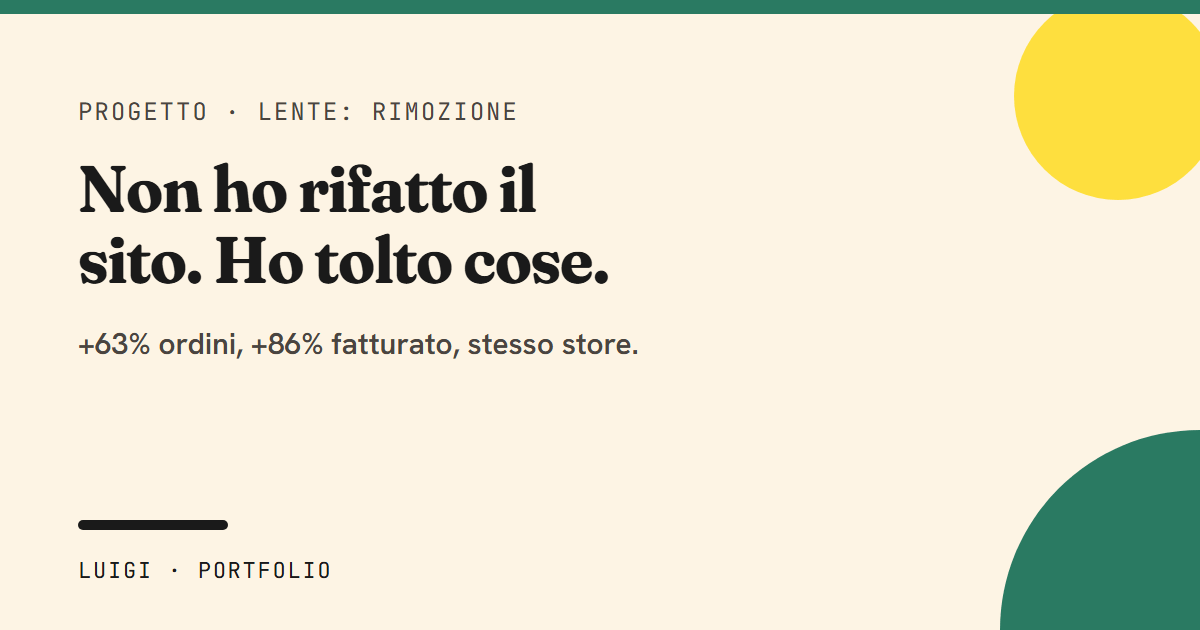
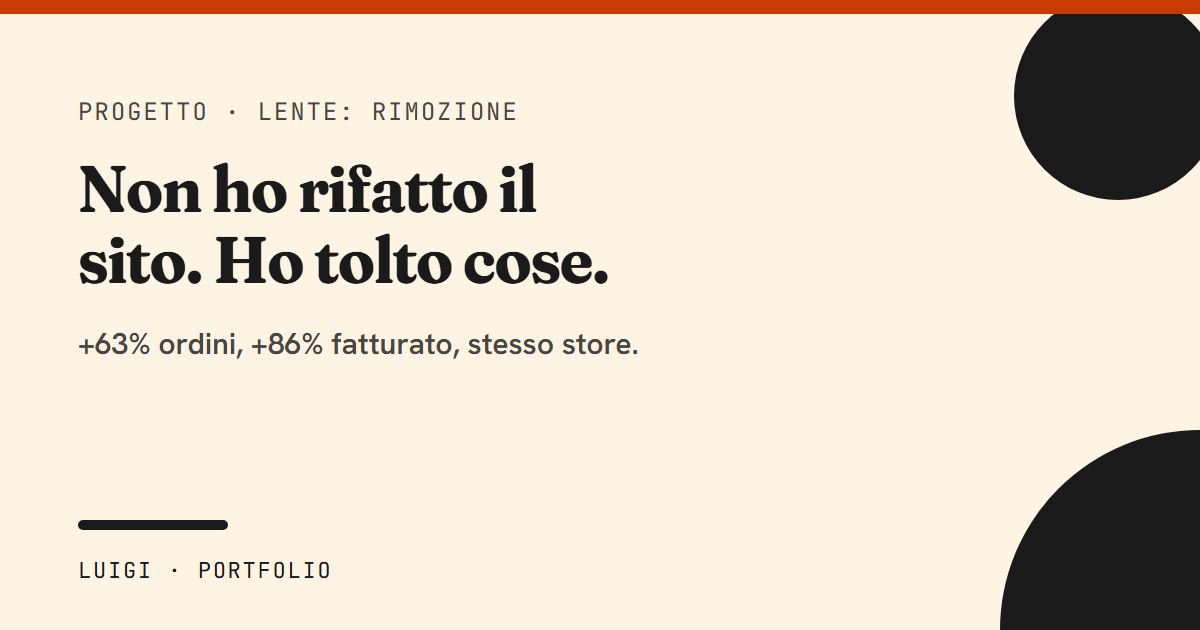
feat(palette): tre colori, regola 60/30/10
Via verde, verde-deep, blu, giallo e rosso da tokens.css e
design-tokens.md. Restano cream/cream-2 (60%), ink/ink-2 (30%),
arancio (10%, unico accento).

- Nav: voce attiva ink/cream, CTA "Scrivimi" outline ink.
- Hero: riga sotto il nome ink-2 in entrambi i percorsi.
- Link: sottolineatura arancio, testo arancio in hover; selezione
  del testo arancio/cream.
- Forme Bauhaus: ogni composizione a una arancio, le altre ink.
- RampChart e Funnel: barre cream/ink, solo l'ultima in arancio.
- StatTile: tone ink/arancio, solo +86% resta arancio nel caso reale.
- Tag: tone ink (bordo) e cream (fondo cream-2), sostituisce
  giallo/blu/verde.
- Chip di codice: fondo cream-2, testo ink.
- Esito positivo del form: fondo ink invece di verde-deep.
- Burst dell'hover sulla scena: due toni di arancio al posto del
  magenta.
- Before/After: tag "Dopo" cream-2/bordo ink invece di giallo.
- prepara-cover.mjs e prepara-og.mjs: via l'accento per percorso,
  un solo arancio per composizione. Rigenerate tutte le cover dei
  progetti e le og-image.
- Styleguide: palette e tabella contrasti aggiornate.

Contrasti AA ricontrollati con la formula WCAG: tutte le coppie di
testo usate restano sopra 4,5:1 (dettaglio in docs/STATO.md).

diff --git a/src/styles/tokens.css b/src/styles/tokens.css
@@ -10,12 +10,7 @@
   --color-cream-2: #f6e9d2; /* card, superfici secondarie */
   --color-ink: #1a1a1a; /* testo principale, bordi forti */
   --color-ink-2: #4a4540; /* testo secondario */
-  --color-verde: #399f80; /* dominante: sezioni, link (su cream usare verde-deep per il testo) */
-  --color-verde-deep: #2a7a62; /* hover del verde */
-  --color-arancio: #c93c00; /* CTA primaria, hover, sottolineature */
-  --color-blu: #0270c0; /* solo percorso "sviluppatore", codice, badge tech */
-  --color-giallo: #fedf3e; /* forme Bauhaus, evidenziazioni, max 5% della pagina */
-  --color-rosso: #e4091e; /* solo nelle grafiche dei concept, mai nella UI */
+  --color-arancio: #c93c00; /* accento 10%: CTA primaria, link, hover, sottolineature */
 
   /* --- Font (self-hosted via @fontsource, font-display: swap) --- */
   --font-display: "Fraunces Variable", Georgia, "Times New Roman", serif;

diff --git a/src/styles/global.css b/src/styles/global.css
@@ -80,20 +80,19 @@
   a {
     color: inherit;
     text-decoration-line: underline;
-    text-decoration-color: var(--color-verde);
+    text-decoration-color: var(--color-arancio);
     text-decoration-thickness: 2px;
     text-underline-offset: 0.18em;
-    transition: color 0.2s var(--ease-brand), text-decoration-color 0.2s var(--ease-brand);
+    transition: color 0.2s var(--ease-brand);
   }
 
   a:hover {
-    color: var(--color-verde-deep);
-    text-decoration-color: var(--color-arancio);
+    color: var(--color-arancio);
   }
 
   ::selection {
-    background-color: var(--color-giallo);
-    color: var(--color-ink);
+    background-color: var(--color-arancio);
+    color: var(--color-cream);
   }
 
   :focus-visible {

diff --git a/src/content.config.ts b/src/content.config.ts
@@ -32,7 +32,7 @@ const progetti = defineCollection({
       /** Posizione nella griglia per ciascun percorso (1 = primo). */
       ordine_dev: z.number().int().positive(),
       ordine_business: z.number().int().positive(),
-      /** Card con tag giallo e nessun link al dettaglio. */
+      /** Card con tag "in arrivo" e nessun link al dettaglio. */
       in_arrivo: z.boolean().default(false),
       /* I default sono scritti per esteso: zod non ripassa il valore di
          .default() dentro lo schema, quindi un `.default({})` lascerebbe

diff --git a/docs/STATO.md b/docs/STATO.md
@@ -145,6 +145,47 @@ visibili a riposo) non è stato toccato.
   c'è più. Rigenerata solo `og.png`; le altre og, rifatte con il nuovo file, differivano solo
   nell'antialiasing e sono state lasciate com'erano.
 
+- **Palette a tre colori (2026-09-23).** `verde`, `verde-deep`, `blu`, `giallo` e `rosso` escono
+  da `src/styles/tokens.css` e da `docs/design-tokens.md`: restano `cream`/`cream-2` (60%),
+  `ink`/`ink-2` (30%), `arancio` (10%, unico accento). Tolti a mano da ogni file che li usava,
+  build e classi Tailwind non generate non lo segnalano da sole. Le regole, componente per
+  componente:
+  - **Nav** (`Nav.astro`): voce attiva ink con testo cream (contrasto 15,9:1); `Scrivimi` outline
+    ink su fondo trasparente, riempimento ink al passaggio del mouse.
+  - **Hero**: riga sotto il nome ink-2 in entrambi i percorsi (prima blu/verde-deep).
+  - **Link** (`global.css`): sottolineatura arancio sempre, testo arancio al passaggio del mouse
+    (prima verde/verde-deep); selezione del testo fondo arancio, testo cream.
+  - **Forme Bauhaus**: ogni composizione (hero, `/come-lavoro`, `/contatti`, 404, cover dei
+    progetti, og-image) resta a una forma arancio e le altre ink, mai più di una insieme.
+  - **Grafici**: `RampChart` (barre mensili) e `Funnel` (imbuto del caso reale) hanno barre
+    cream/ink, solo l'ultima (il mese o il passo finale) in arancio, bordo ink sempre presente
+    sulla pista. `StatTile`: tone ridotto a `ink` (default) e `arancio`; nel caso reale solo
+    +86% di fatturato è arancio, +63% ordini e 94% traffico restano ink.
+  - **Tag**: tone ridotto a `ink` (solo bordo) e `cream` (fondo cream-2, bordo e testo restano
+    ink) — usato per "in arrivo" e per i chip tecnici (`Liquid`, `Astro`, ecc., prima `blu`).
+  - **Chip di codice** (`<code>` in "Come ho costruito questo sito"): ora un vero chip, fondo
+    cream-2 e testo ink (14,5:1) al posto del testo blu senza fondo.
+  - **Esito del form** (`/contatti`): messaggio positivo fondo ink/testo cream (prima
+    verde-deep); quello negativo era già cream-2 con bordo arancio, invariato.
+  - **Burst dell'hover sulla scena** (`DeskScene.astro`): due toni di arancio (`--color-arancio`
+    e `#dc8059`, quest'ultimo fuori token per lo stesso motivo per cui lo era il magenta) al
+    posto dei due magenta.
+  - **Before/After**: tag "Dopo" cream-2 con bordo ink (prima giallo).
+  - **Cover dei progetti e og-image**: `prepara-cover.mjs` e `prepara-og.mjs` avevano la
+    palette completa hardcoded e un sistema di "accento per percorso" (blu/verde/arancio) che
+    non ha più senso con un solo accento; tolto, ogni composizione ora usa un solo arancio.
+    Rigenerate tutte le cover (`src/assets/progetti/*.png`) e tutte le og-image.
+  - **Styleguide**: palette, tabella contrasti e stati dei componenti aggiornati alla nuova
+    lista; tolte le voci non più valide (`tone="verde"`, `tone="blu"`, `tone="giallo"`).
+
+  Contrasti AA ricontrollati (formula WCAG, non stimati): tutte le coppie di testo realmente
+  usate restano sopra 4,5:1 — ink/cream 15,94, ink/cream-2 14,51, ink-2/cream 8,68,
+  ink-2/cream-2 7,90, cream/ink 15,94, arancio/cream 4,66 (testo normale, compresi i bottoni
+  primary e i link in hover). Nessuna coppia di testo usata resta sotto soglia: l'unico caso a
+  4,24:1 (arancio su cream-2) è l'icona decorativa `↗` dei link esterni, `aria-hidden` e quindi
+  non testo. Verificato con i sei test permanenti sulla build di preview (tutti verdi) e
+  screenshot a 390/1280, entrambi i percorsi, su tutte le pagine incluso lo styleguide.
+
 - **Prova sopra la piega nell'hero (2026-09-22).** Risponde a due punti della passata 2 di
   `docs/AUDIT.md`: il 3 (i numeri veri stavano a due click dalla home) e il 5 (lo switch cambiava
   troppo poco). Sotto la CTA dell'hero c'è ora una riga che cambia col percorso e linka a

diff --git a/docs/design-tokens.md b/docs/design-tokens.md
@@ -1,21 +1,19 @@
 # Design Tokens — "Retro-Bauhaus"
 
-Mood: retro-tech caldo come base, accenti pop Bauhaus. Mai bianco puro, mai grigio freddo.
+Mood: retro-tech caldo. Mai bianco puro, mai grigio freddo.
 
 ## Colori (definiscili in `src/styles/tokens.css` con @theme di Tailwind v4)
 
+Palette a tre colori, regola 60/30/10: cream (con cream-2) 60%, ink (con ink-2) 30%, arancio 10%.
+Un solo accento: niente verde, blu, giallo o rosso nell'interfaccia.
+
 | Token | Hex | Uso |
 |---|---|---|
-| --color-cream | #fdf4e4 | sfondo pagina |
-| --color-cream-2 | #f6e9d2 | card, superfici secondarie |
-| --color-ink | #1a1a1a | testo principale, bordi forti |
-| --color-ink-2 | #4a4540 | testo secondario |
-| --color-verde | #399f80 | colore dominante, sezioni, link |
-| --color-verde-deep | #2a7a62 | hover del verde |
-| --color-arancio | #c93c00 | CTA primaria, hover, sottolineature |
-| --color-blu | #0270c0 | solo percorso "sviluppatore", codice, badge tech |
-| --color-giallo | #fedf3e | forme Bauhaus, evidenziazioni, max 5% della pagina |
-| --color-rosso | #e4091e | solo nelle grafiche dei concept (mai nella UI) |
+| --color-cream | #fdf4e4 | sfondo pagina (60%) |
+| --color-cream-2 | #f6e9d2 | card, superfici secondarie (60%) |
+| --color-ink | #1a1a1a | testo principale, bordi forti, forme Bauhaus, nav attiva (30%) |
+| --color-ink-2 | #4a4540 | testo secondario (30%) |
+| --color-arancio | #c93c00 | accento 10%: CTA primaria, link, hover, sottolineature, una sola forma Bauhaus |
 
 Dark mode: NON prevista al lancio.
 
@@ -36,7 +34,7 @@ Scala (mobile → desktop, usa clamp):
 - Sezioni: padding-block 80px mobile / 140px desktop.
 - Raggio: card 20px, bottoni 999px (pill), immagini 12px.
 - Bordo "retro": 2px solid var(--color-ink) sulle card principali, ombra dura 4px 4px 0 var(--color-ink) sull'hover. L'ombra dura è **solo delle Card**: mai sui bottoni.
-- Forme Bauhaus decorative: cerchio, semicerchio, quarto di cerchio, barra. Solo giallo/arancio/blu, opacità 1, mai sfumature.
+- Forme Bauhaus decorative: cerchio, semicerchio, quarto di cerchio, barra. Solo ink (piene o contorno 3px), più una sola forma in arancio per composizione. Opacità 1, mai sfumature.
 
 ## Motion (GSAP)
 - Durata base 0.6s, ease "power3.out". Stagger 0.08s.
@@ -57,4 +55,4 @@ Scala (mobile → desktop, usa clamp):
 - Con `prefers-reduced-motion`: niente scorrimento, cambio colore istantaneo.
 
 ## Componenti da definire (con stati default / hover / focus / active / disabled)
-Button (primary arancio, secondary outline ink, ghost), Tag mono, Card progetto, Switch target (hero), Nav sticky con indicatore verde, Section header (label mono + h2 Fraunces), Before/After slider, Stat tile (numero Fraunces + label mono), Footer con "visitor book" (prima versione: solo link mailto e social).
+Button (primary arancio, secondary outline ink, ghost), Tag mono, Card progetto, Switch target (hero), Nav sticky con indicatore ink, Section header (label mono + h2 Fraunces), Before/After slider, Stat tile (numero Fraunces + label mono), Footer con "visitor book" (prima versione: solo link mailto e social).
